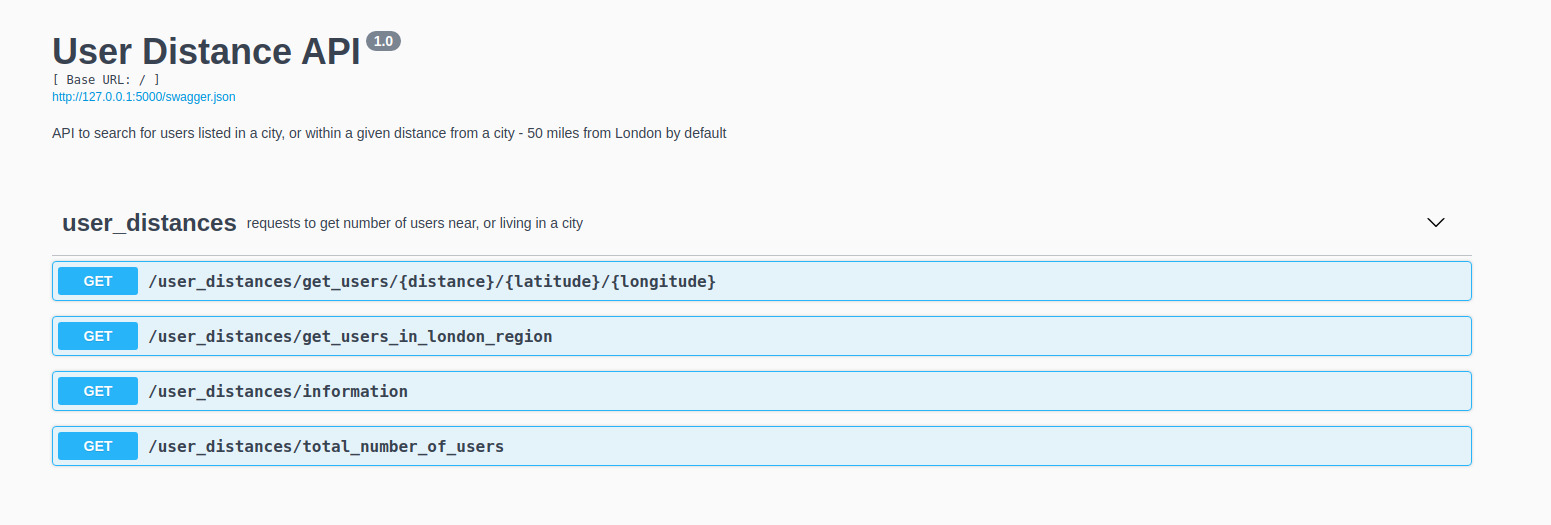
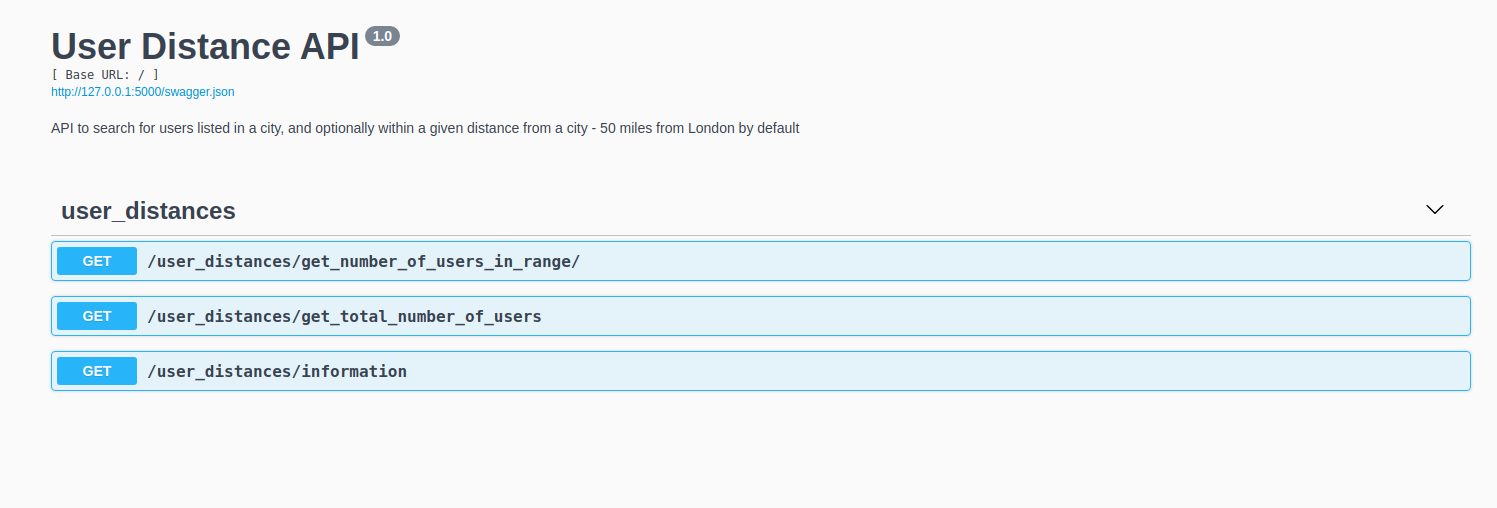
update tests and documentation

diff --git a/resources/routes.py b/resources/routes.py
@@ -12,25 +12,27 @@ DATA_ROOT_URL = 'https://bpdts-test-app.herokuapp.com/'
 
 parser = reqparse.RequestParser()
 
-parser.add_argument('city', type=str,default='London', help='returns ', location='args')
-parser.add_argument('return_users', type=inputs.boolean, default=False, help='return users as part of the query',location='args')
-parser.add_argument('find_users_in_range', type=inputs.boolean, default=True, help='When set to false, only users who are listed as living in a city are counted',location='args')
-parser.add_argument('distance', type=float, default=50.0, help='range from a given location to search for users, set find_users_in_range to true to use this parameter', location='args')
-parser.add_argument('latitude', type=float, default=51.506 ,help='Latitude of location to perform user search. London by default. set find_users_in_range to true to use this parameter', location='args')
-parser.add_argument('longitude', type=float, default=-0.1272 , help='range from a given location to search for users. set find_users_in_range to true to use this parameter', location='args')
+parser.add_argument('city', type=str,default='London', help='The city used to query the bpdts-test-app API for users listed as living in that city. \n e.g., default value of London will return all users who list themselves as living in London. ', location='args')
+parser.add_argument('return_users', type=inputs.boolean, default=False, help='Optionally, also return users who meet criteria as part of the query',location='args')
+parser.add_argument('find_users_in_range', type=inputs.boolean, default=True, help='When set to false, only users who are listed as living in a city are counted and distance, latitude and longitude are ignored. \n Set to true to also obtain users in range of given latitude and longitude.',location='args')
+parser.add_argument('distance', type=float, default=50.0, help='Distance from a given location to search for users, set find_users_in_range to true to use this parameter.', location='args')
+parser.add_argument('latitude', type=float, default=51.506 ,help='Latitude of location used for distance search. Set find_users_in_range to true to use this parameter. \n Default value is the latitude of London.', location='args')
+parser.add_argument('longitude', type=float, default=-0.1272 , help='Longitude of location used for distance search. Set find_users_in_range to true to use this parameter. \n Default value is the longitude of London.', location='args')
 
 @api_namespace.route('/information')
 class ApiInfo(Resource):
     def get(self):
         return {'api_overview': 'todo'}
 
-@api_namespace.route('/get_number_of_users_in_range/')
+@api_namespace.doc(responses={ 200: 'OK', 400: 'Bad Request', 500: 'Internal Server Error' })
+@api_namespace.route('/get_number_of_users_in_range/', doc={"description": 'By default, this request (/user_distances/get_number_of_users_in_range/) returns the number of users who are either listed as living in London, or whose current coordinates are within 50 miles of London. \n \n This request can also be modified to find users listed as living in any city, but the longitude and latitude must be updated to match this city to give a valid result for users in range. \n  Otherwise, set   find_users_in_range   to false to return users listed as living in the requested city. '})
 class GetUsersGeneric(Resource):
     @api_namespace.expect(parser)
     def get(self):
 
         try: 
             args = parser.parse_args()
+
             requested_lat_long = (args['latitude'], args['longitude'])
             GUD = GetUserDetails(DATA_ROOT_URL)
              
@@ -39,18 +41,24 @@ class GetUsersGeneric(Resource):
             if args['return_users']==False:
                 return {'number_of_users': len(users_near_city)}
             else: 
-                return {'number_of_users': len(users_near_city), 'users:' : users_near_city}
+                return {'number_of_users': len(users_near_city), 'users' : users_near_city}
 
         except KeyError as e:
             api_namespace.abort(400, str(e), status = "Bad Request", statusCode = "400")
         except Exception as e:
-            api_namespace.abort(500, str(e), status = "Could not retrieve information", statusCode = "500")
+            api_namespace.abort(500, str(e), status = "Internal Server Error", statusCode = "500")
 
-@api_namespace.route('/get_total_number_of_users',doc={"description": "Alias for /my-resource/<id>"})
-# @api_namespace.doc(params={'': 'Search for all users within this distance of a location, default is 50miles (location given by following latitude,longitude).'})
+
+@api_namespace.doc(responses={ 200: 'OK', 400: 'Bad Request', 500: 'Internal Server Error' })
+@api_namespace.route('/get_total_number_of_users',doc={"description": "Returns the total number of users that are available in the bpdts-test-app "})
 class ApiInfo(Resource):
     def get(self):
-        GUD = GetUserDetails(DATA_ROOT_URL)
-        total_number_of_users = GUD.get_total_num_of_users()
-        return {'total_number_of_users': total_number_of_users}
-
+        try:               
+            GUD = GetUserDetails(DATA_ROOT_URL)
+            total_number_of_users = GUD.get_total_num_of_users()
+            return {'total_number_of_users': total_number_of_users}
+        except KeyError as e:
+            api_namespace.abort(400, str(e), status = "Bad Request", statusCode = "400")
+        
+        except Exception as e:
+            api_namespace.abort(500, str(e), status = "Internal Server Error", statusCode = "500")

diff --git a/tests/test_app.py b/tests/test_app.py
@@ -23,37 +23,86 @@ def test_app_output():
     assert expected_output == response.json()
 
 
-def test_number_of_users():
+def test_total_number_of_users():
     expected_total_users = 1000
-    response = requests.get(url + '/total_number_of_users')
+    response = requests.get(url + '/get_total_number_of_users')
     response_as_dict = response.json()
     num_of_users_returned = response_as_dict['total_number_of_users']
     assert int(num_of_users_returned) == expected_total_users
 
 def test_users_in_50miles():
     """ Validate that the London specific and the general method give the same output """
-    response_general = (requests.get(url + '/get_users/50.0/51.506/-0.1272')).json()
-    response_london_specific = (requests.get(url + '/get_users_in_london_region')).json()
+    response_general = (requests.get(url + '/get_number_of_users_in_range/?city=London&return_users=false&find_users_in_range=true&distance=50&latitude=51.506&longitude=-0.1272')).json()
+    response_london_specific = (requests.get(url + '/get_number_of_users_in_range')).json()
+
+    assert response_general['number_of_users'] == response_london_specific['number_of_users']
+
+def test_junk_input_response():
+    """ If parameters set incorrectly the request is set to request with default parameters"""
+    response_general = (requests.get(url + '/get_number_of_users_in_range/?junk')).json()
+    response_london_specific = (requests.get(url + '/get_number_of_users_in_range')).json()
+
+    assert response_general['number_of_users'] == response_london_specific['number_of_users']
+
+
+# def test_error_handling():
+#     response_general = (requests.get(url + '/get_number_of_users_in_range/?kity=London&return_users=false&find_users_in_range=true&distance=50&latitude=51.506&longitude=-0.1272')).json()
+def test_returned_keys():
+    """ Check for errors in the returned keys when users are not returned"""
+    GUD = GetUserDetails(DATA_ROOT_URL)    
+    test_city = 'Dhangarhi'
+    test_find_users_in_range = 'false'
+    test_return_users = 'false'
     
-    assert response_general['number_users_near_city'] == response_london_specific['number_users_near_london']
+    response_general = (requests.get(url + '/get_number_of_users_in_range/?city='+test_city+'&return_users='+test_return_users+'&find_users_in_range='+test_find_users_in_range)).json()
+    
+    expected_keys = ['number_of_users']
+    assert expected_keys == list(response_general.keys())
+
+
+def test_returned_keys_users():
+    """ Check for errors in the returned keys when users are returned"""
+    GUD = GetUserDetails(DATA_ROOT_URL)    
+    test_city = 'Dhangarhi'
+    test_find_users_in_range = 'false'
+    test_return_users = 'true'
+    
+    response_general = (requests.get(url + '/get_number_of_users_in_range/?city='+test_city+'&return_users='+test_return_users+'&find_users_in_range='+test_find_users_in_range)).json()
+    
+    expected_keys = ['number_of_users', 'users' ]
+    assert expected_keys == list(response_general.keys())
+
+def test_users_for_returned_city():
+    GUD = GetUserDetails(DATA_ROOT_URL)    
+    test_city = 'Dhangarhi'
+    test_find_users_in_range = 'false'
+    test_return_users = 'true'
+    
+    response_general = (requests.get(url + '/get_number_of_users_in_range/?city='+test_city+'&return_users='+test_return_users+'&find_users_in_range='+test_find_users_in_range)).json()
+    response_from_gud = GUD.get_users_in_requested_city(test_city)
+
+    for i, v in enumerate (response_from_gud['id'].values):
+        if response_general['users'][i]['id'] != v :
+            assert False
+    assert True
 
 
 def test_returned_cities():
     GUD = GetUserDetails(DATA_ROOT_URL)    
-    test_city = "Dhangarhi"
-    users_in_test_city = GUD.get_users_in_requested_city(test_city)
+    test_city = 'Dhangarhi'
+    test_find_users_in_range = 'false'
+    test_return_users = 'true'
+    
+    response_general = (requests.get(url + '/get_number_of_users_in_range/?city='+test_city+'&return_users='+test_return_users+'&find_users_in_range='+test_find_users_in_range)).json()
 
-    # GUD.get_user_keys()
+    for user in response_general['users']:
+        test_user_response = (requests.get(DATA_ROOT_URL + '/user/'+ str(user['id']))).json()
 
-    for user in users_in_test_city.head().itertuples():
-        #check city for each user
-        # print(user)
-        test_user_response = (requests.get(DATA_ROOT_URL + '/user/'+ str(user.id))).json()
-        if test_user_response['city'] != test_city:
+        if test_user_response['city'] != test_city :
             assert False
             return
-    
     assert True
+
     
 #!-- Validation of output of GUD methods--
 
@@ -71,8 +120,8 @@ def test_compare_calc_methods():
 
     tictoc2 = toc - tic
 
-    print(f"Haversine was {tictoc1:0.4f} seconds\n")
-    print(f"Equirectangular was {tictoc2:0.4f} seconds\n")
+    print(f"\nHaversine was calculated in {tictoc1:0.4f} seconds\n")
+    print(f"Equirectangular was calculated in {tictoc2:0.4f} seconds\n")
 
     assert user_distances_haversine.shape[0] == user_distances_equirectangular.shape[0]
 

diff --git a/resources/get_user_details.py b/resources/get_user_details.py
@@ -3,7 +3,7 @@ import requests
 
 from resources.calc_distances import calc_haversine_dist_miles, calc_equirectangular_dist_miles
 import pandas as pd
-
+from numpy import nan
 
 class GetUserDetails(object):
 
@@ -44,7 +44,6 @@ class GetUserDetails(object):
         Lists the available keys available for a user
         """
         available_keys = self._users.columns.values.tolist()
-        print(available_keys)
         return available_keys
 
     def get_users_in_requested_city(self, input_city='London'):
@@ -52,14 +51,11 @@ class GetUserDetails(object):
         Returns data frame of users from bpdts-test-app that are listed as living in a given city, London by default.
         """
         query_city_url = self._root_url + 'city/'+input_city+'/users'
-        try:
-            user_request = requests.get(query_city_url)
-            users_in_city = pd.DataFrame(user_request.json())
-            user_request.raise_for_status()
-            return users_in_city
 
-        except requests.exceptions.HTTPError as err:
-            raise NoResultFound(err)
+        user_request = requests.get(query_city_url)
+        users_in_city = pd.DataFrame(user_request.json())
+        user_request.raise_for_status()
+        return users_in_city
 
         
     def filter_users_by_distance(self, users,  requested_range=50, requested_lat_long=(51.506, -0.1272)):
@@ -97,14 +93,14 @@ class GetUserDetails(object):
                                        <= requested_range]
         return users_within_range
 
-    def get_all_users_near_city(self, requested_range=50, city='London', requested_lat_long=(51.506, -0.1272)):
+    def get_all_users_near_city(self, requested_range=50, input_city='London', find_users_in_range=True , requested_lat_long=(51.506, -0.1272)):
         """
         Returns unique users and their current distance for users who either list themselves as living in the requested city, or whose current coordinates are within a requested range of a city.
         Those who are listed as living in the current city return a distance of 0 from the city.
         """
-        users_in_city = self.get_users_in_requested_city()
+        users_in_city = self.get_users_in_requested_city(input_city) # returns users listed as living in input_city
                
-        if self._find_users_in_range == True:
+        if find_users_in_range == True: 
             users_in_range = self.filter_users_by_distance(self._users,
                                                        requested_range, requested_lat_long)
             # merges queries and removes duplicates
@@ -113,7 +109,7 @@ class GetUserDetails(object):
         else:
             # merges queries and removes duplicates
             all_users_in_city = (users_in_city).drop_duplicates(keep=False)
-            all_users_in_city['distance_from_city']= np.nan
+            all_users_in_city['distance_from_city']= nan
 
         # Replace null with 0 for values in calculated distance returned from get_users_in_requested_city()
         all_users_in_city['distance_from_city']= all_users_in_city['distance_from_city'].fillna(value=0) 

diff --git a/app.py b/app.py
@@ -5,9 +5,9 @@ from flask_restx import Api, Resource
 
 flask_app = Flask(__name__)
 flask_api = Api(flask_app, version='1.0', title='User Distance API',
-                description='API to search for users listed in a city, or within a given distance from a city - 50 miles from London by default')
+                description='API that calls the bpdts-test-app API and returns users listed in a city and, optionally, within a given distance from a city - 50 miles from London by default')
 
-api_namespace = flask_api.namespace("user_distances", "requests to get number of users near, or living in a city")
+api_namespace = flask_api.namespace("user_distances")
 
 
 import resources.routes

diff --git a/resources/calc_distances.py b/resources/calc_distances.py
@@ -11,6 +11,7 @@ def calc_haversine_dist_miles(lat_1, long_1, lat_long_2=lat_long_london, earth_r
     By default, distance returned in miles, to get km change earth radius to earth_radius=6371
 
     """
+    
     # Convert city coordinates into a vector to perform vectorised calculation
     assert len(lat_1) == len(long_1)
     vector_ones = np.ones(len(lat_1))

diff --git a/README.md b/README.md
@@ -4,13 +4,31 @@ Uses the bpdts-test-app API and returns users who are either listed as living in
 
 The available options are as follows:
 
-- /get_users_in_london_region : this request returns the number of users who are either listed as living in London or whose current coordinates are within 50 miles of London. 
+```http
+/user_distances/get_number_of_users_in_range/
+```
+This request returns the number of users who are either listed as living in London or whose current coordinates are within 50 miles of London. 
 
-- /get_users/{distance}/{latitude}/{longitude} : the more generic use-case for the above; this request will return the users within a requested distance of a requested place, given as latitude and longitude.
+```http
+/user_distances/get_number_of_users_in_range/?city=London&return_users=false&find_users_in_range=true&distance=50&latitude=51.506&longitude=-0.1272
+```
+
+This second request is the more generic use-case. With the default parameters, this request will return the same output as the first request.
+
+```http
+/user_distances/get_total_number_of_users
+```
+
+Returns the total number of users from the bptds-test-app API. Used for testing purposes.
+
+```http
+/user_distances/information
+```
+Used for testing.
 
 ## Requirements
 
-This project depends on Python 3, pip3 and virtualenv. Note these instructions were checked using Ubuntu 18.04, other systems may vary.
+This project depends on Python 3, pip3 and virtualenv. Note these instructions were checked using Ubuntu 18.04, other systems may vary. A Docker image with this demo is also available, see below.
 
 ### Setup virtual environment and run demo locally
 
@@ -30,7 +48,7 @@ python run.py
 
 ```
 
-### Pytest
+### Run tests with Pytest
 
 Tests can be run using pytest: 
 
@@ -40,27 +58,23 @@ python -m pytest -s tests
 
 From the root of the project folder. 
 
-## Using the API
+## Using the API - Swagger
 
-Open a web-browser at 127.0.0.1:5000 to view API GUI and execute request there
+Open a web-browser at 127.0.0.1:5000 to view Swagger API GUI with documentation. Requests can be executed from the Swagger GUI.
 
 ![Swagger API overview](./docs/swagger.png)
 
 
 The API requests can also be called directly, e.g.,
 
-```bash
-http://127.0.0.1:5000/user_distances/get_num_users_in_london/
+```http
+http://127.0.0.1:5000/user_distances/get_number_of_users_in_range/
 
-http://127.0.0.1:5000/user_distances/get_num_users_in_london/?distance=50&latitude=51.506&longitude=-0.1272&city=London&return_users=false
+http://127.0.0.1:5000/user_distances/get_number_of_users_in_range/?city=London&return_users=false&find_users_in_range=true&distance=50&latitude=51.506&longitude=-0.1272
 
 ```
 
-***Please note that the distance parameter should be entered as a float - i.e, 50.0 not 50.*** 
-
-
-
-## Using Docker with this demo
+## Using this API with Docker
 
 ```bash
 docker build -t flask_demo .
@@ -76,7 +90,7 @@ docker run -d --name container_name_1 -p 5000:5000 flask_demo
 
 Open Web browser at localhost:5000
 
-### Executing the pytests in Docker
+### Run the tests with PyTest in Docker
 
 ```bash
 docker exec container_name_1 python -m pytest -s tests
